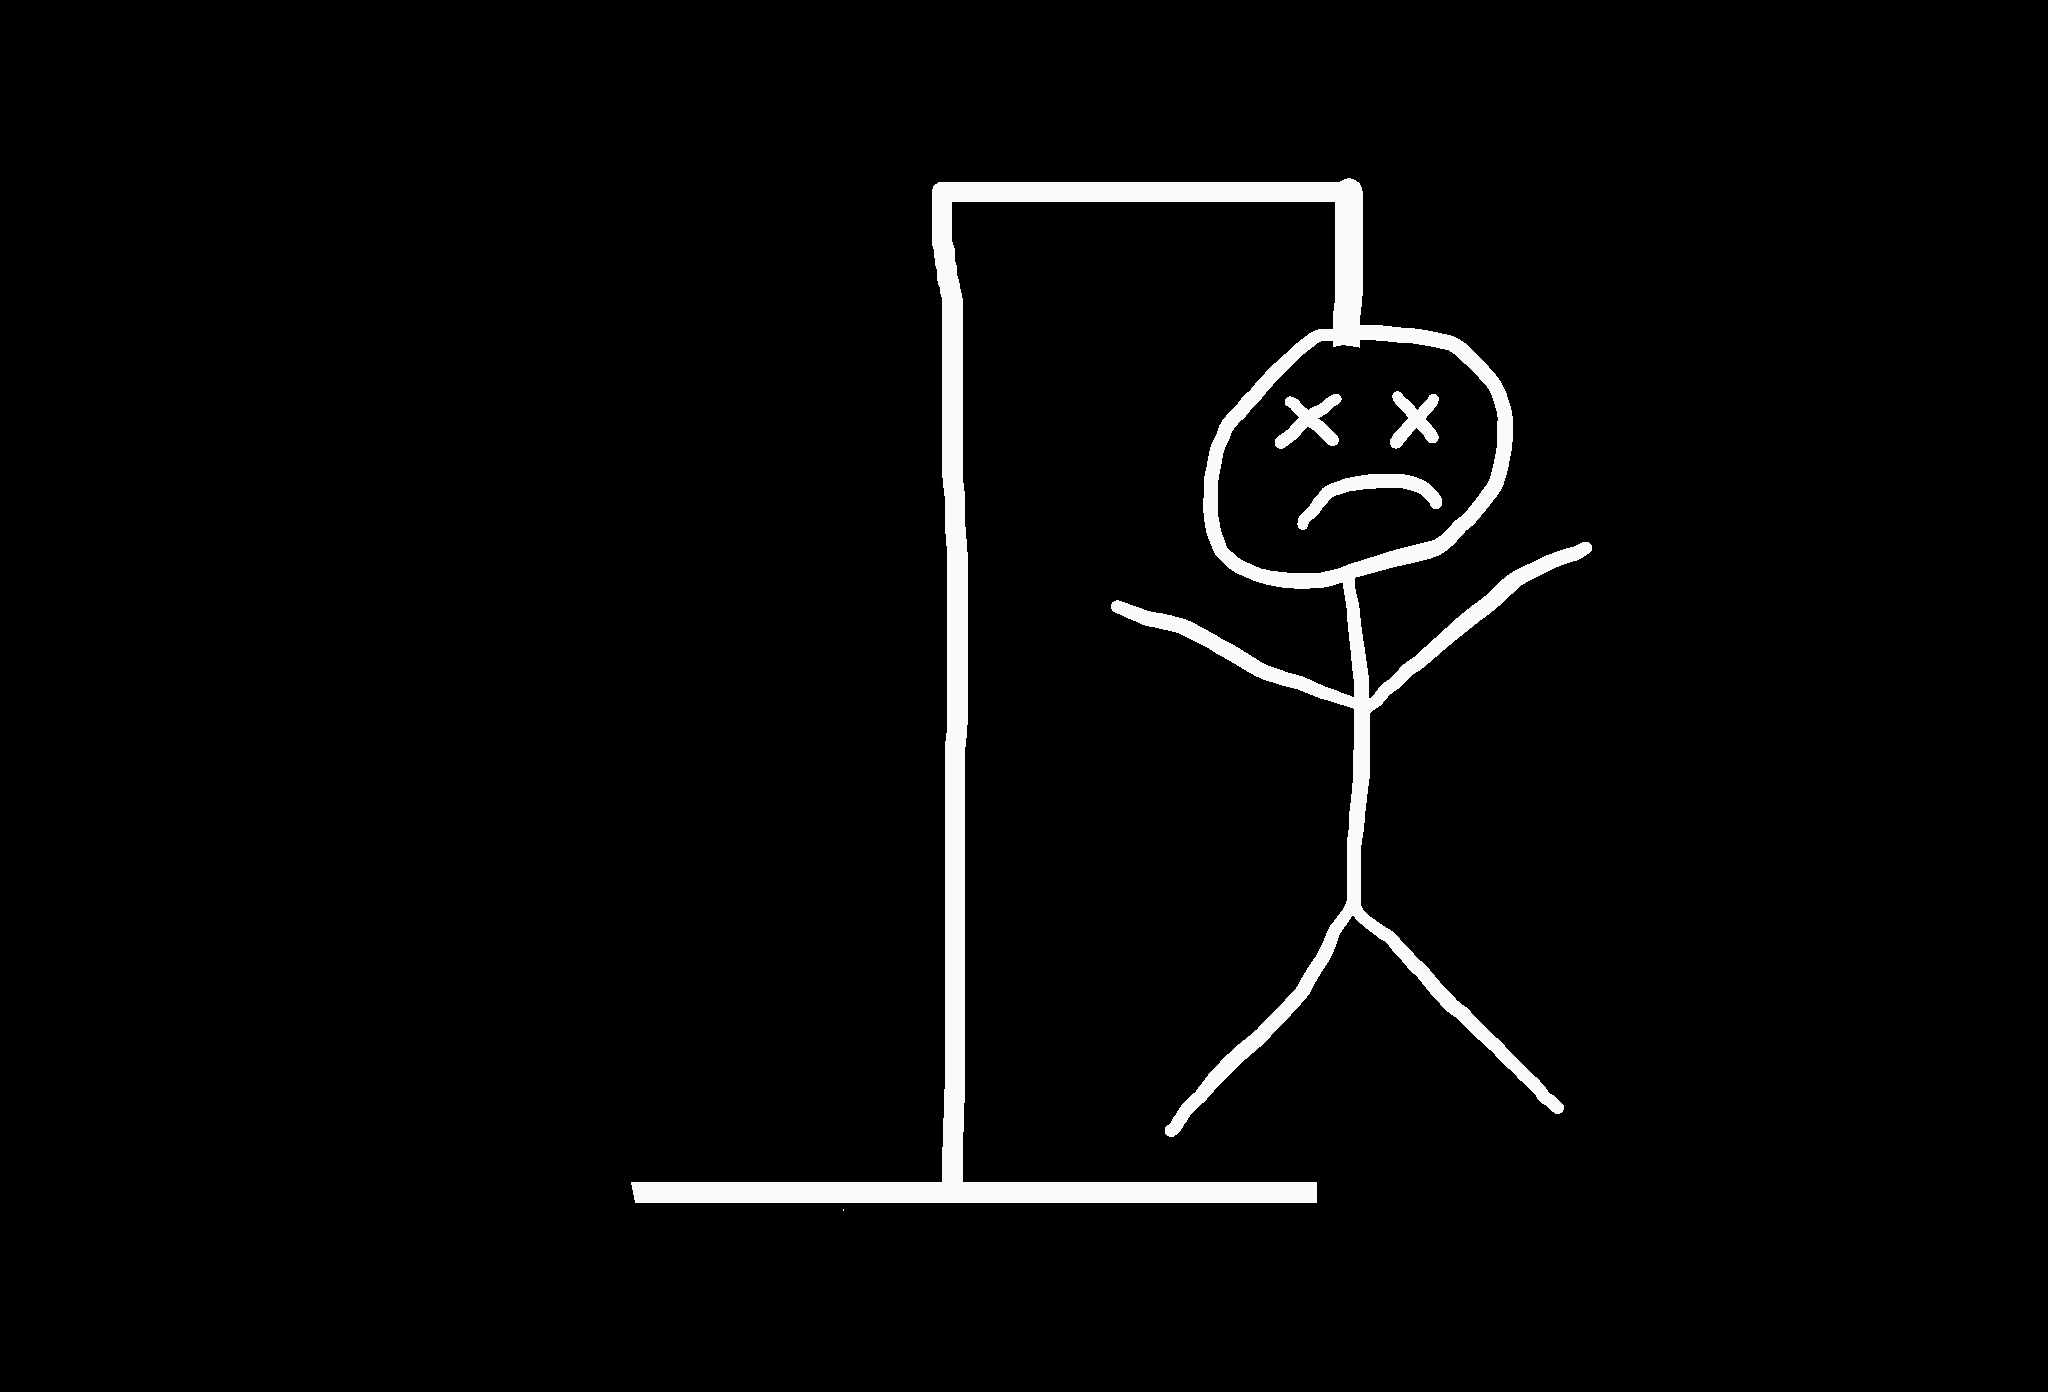
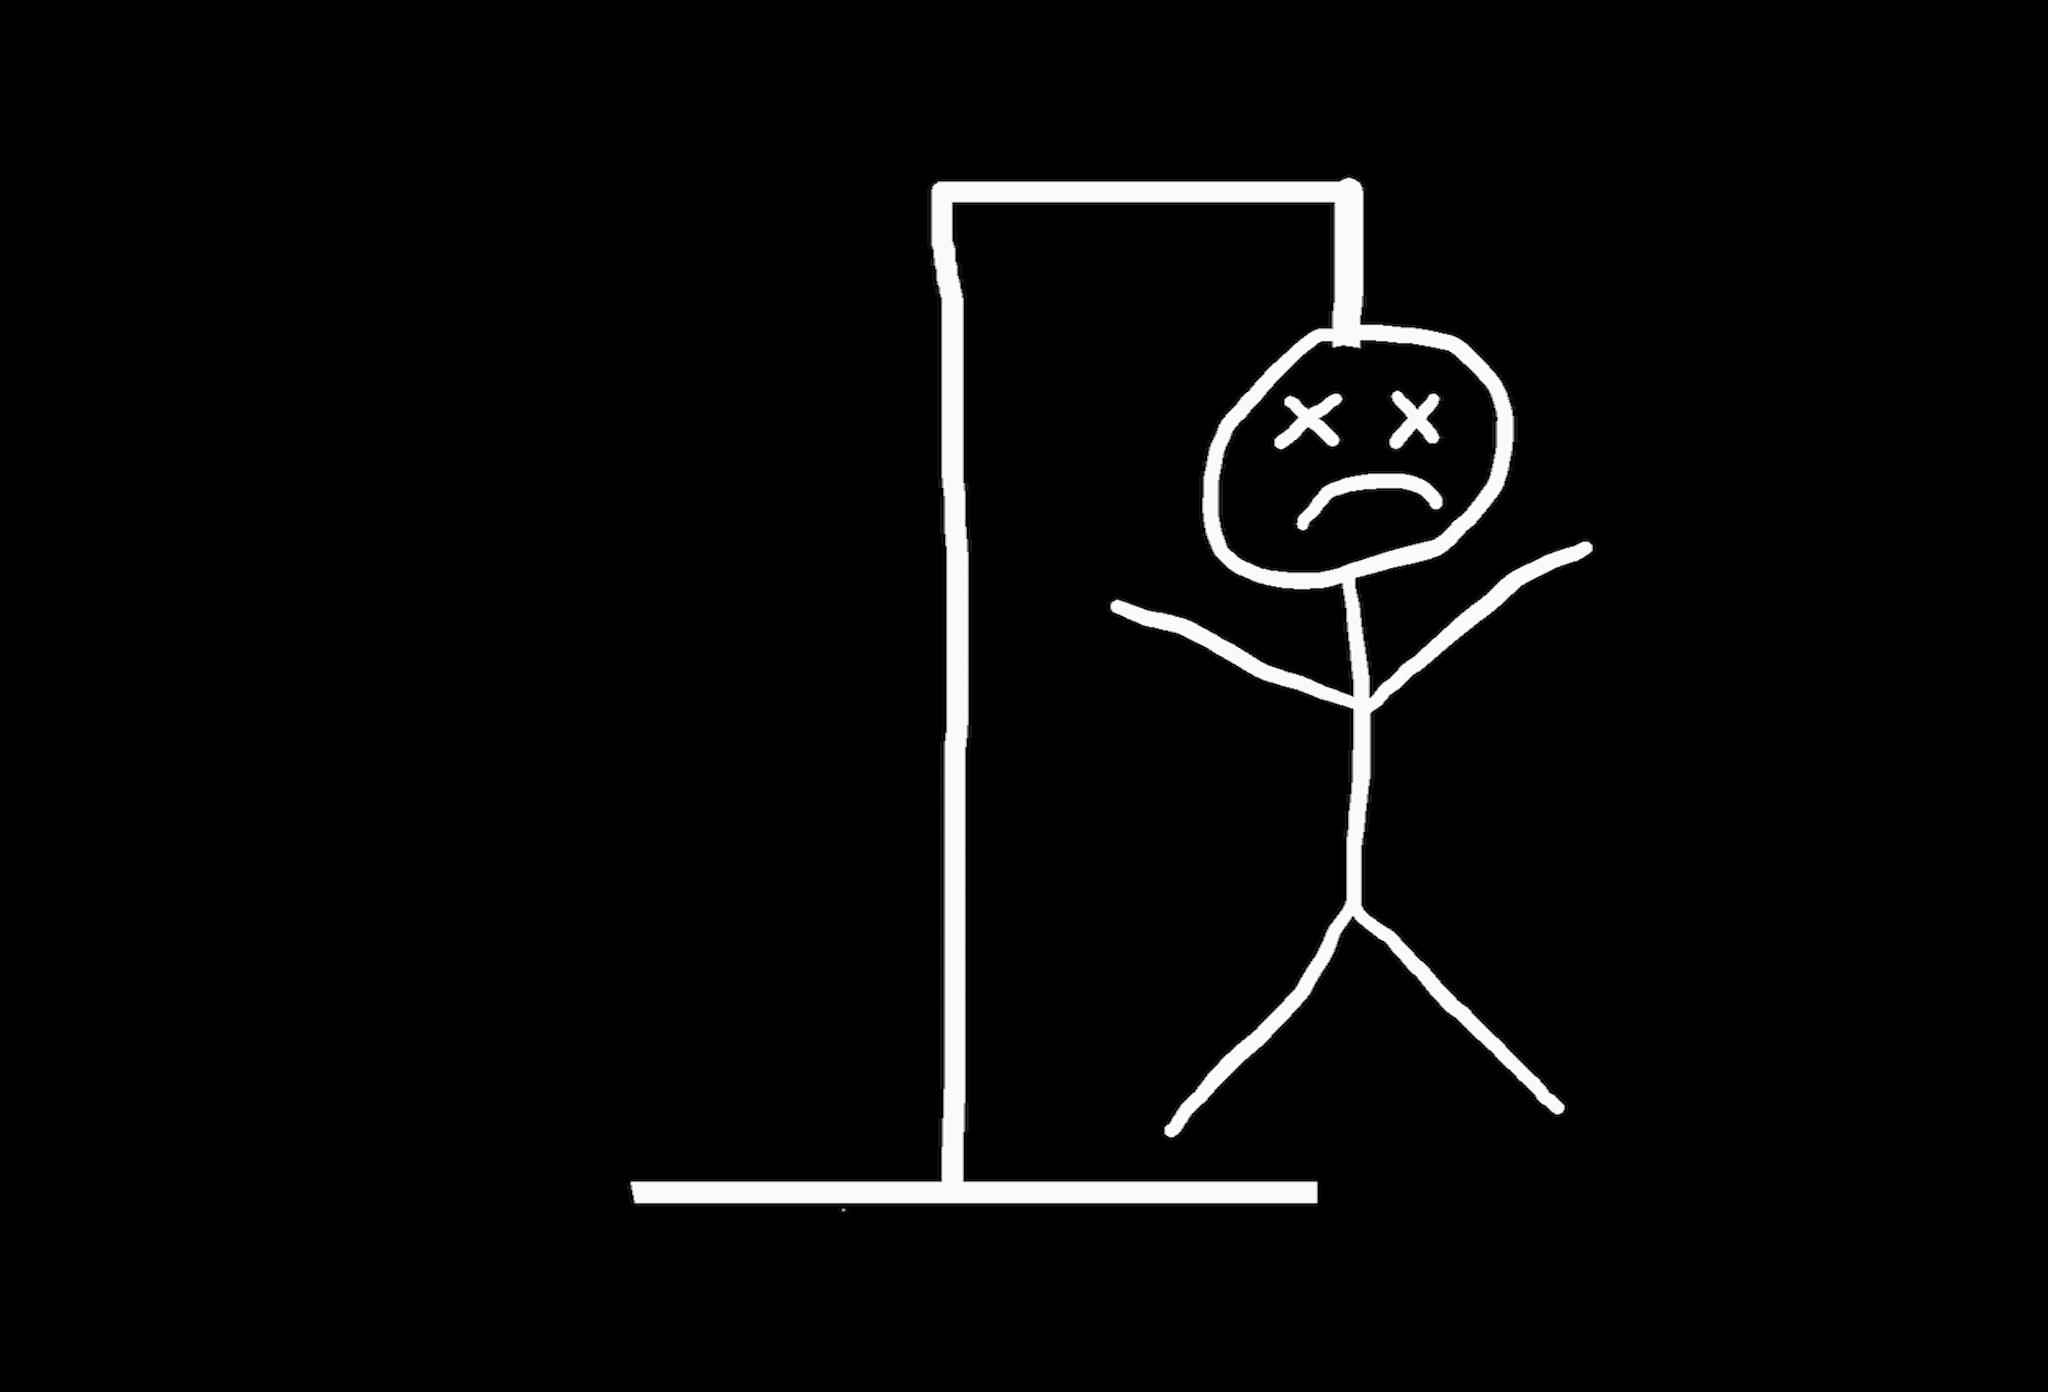
working on switching images

diff --git a/src/Game.js b/src/Game.js
@@ -1,0 +1,41 @@
+import React, { Component } from 'react';
+import base from './img/base.png';
+import head from './img/head.png';
+import body from './img/body.png';
+import right_leg from './img/right_leg.png';
+import left_leg from './img/left_leg.png';
+import right_arm from './img/right_arm.png';
+import left_arm from './img/left_arm.png';
+import dead from './img/dead.png';
+
+function chooseImage(count){
+  if (count === 0){return base}
+  else if (count === 1){return head}
+  else if (count === 2){return body}
+  else if (count === 3){return right_leg}
+  else if (count === 4){return left_leg}
+  else if (count === 5){return right_arm}
+  else if (count === 6){return left_arm}
+  else {return dead}
+}
+
+class Game extends Component {
+  constructor(props){
+    super(props);
+    this.state = {wrongCount: 0};
+    this.onWrong = this.onWrong.bind(this);
+  }
+  render() {
+    return (
+      <div className="Game">
+       <h1>dog hangman</h1>
+       <img style={{ height: '300px'}}  src={chooseImage(this.state.wrongCount)} onClick={ this.onWrong} />
+      </div>
+    );
+  }
+  onWrong(){
+    this.setState({wrongCount: this.state.wrongCount + 1})
+  }
+}
+
+export default Game;

diff --git a/src/App.js b/src/App.js
@@ -1,5 +1,5 @@
 import React, { Component } from 'react';
-import boardImg from './img/board.png';
+import Game from './Game';
 
 class App extends Component {
   
@@ -8,6 +8,7 @@ class App extends Component {
     return (
       <div className="App">
        <h1>what's up nerds</h1>
+       <Game/>
       </div>
     );
   }
